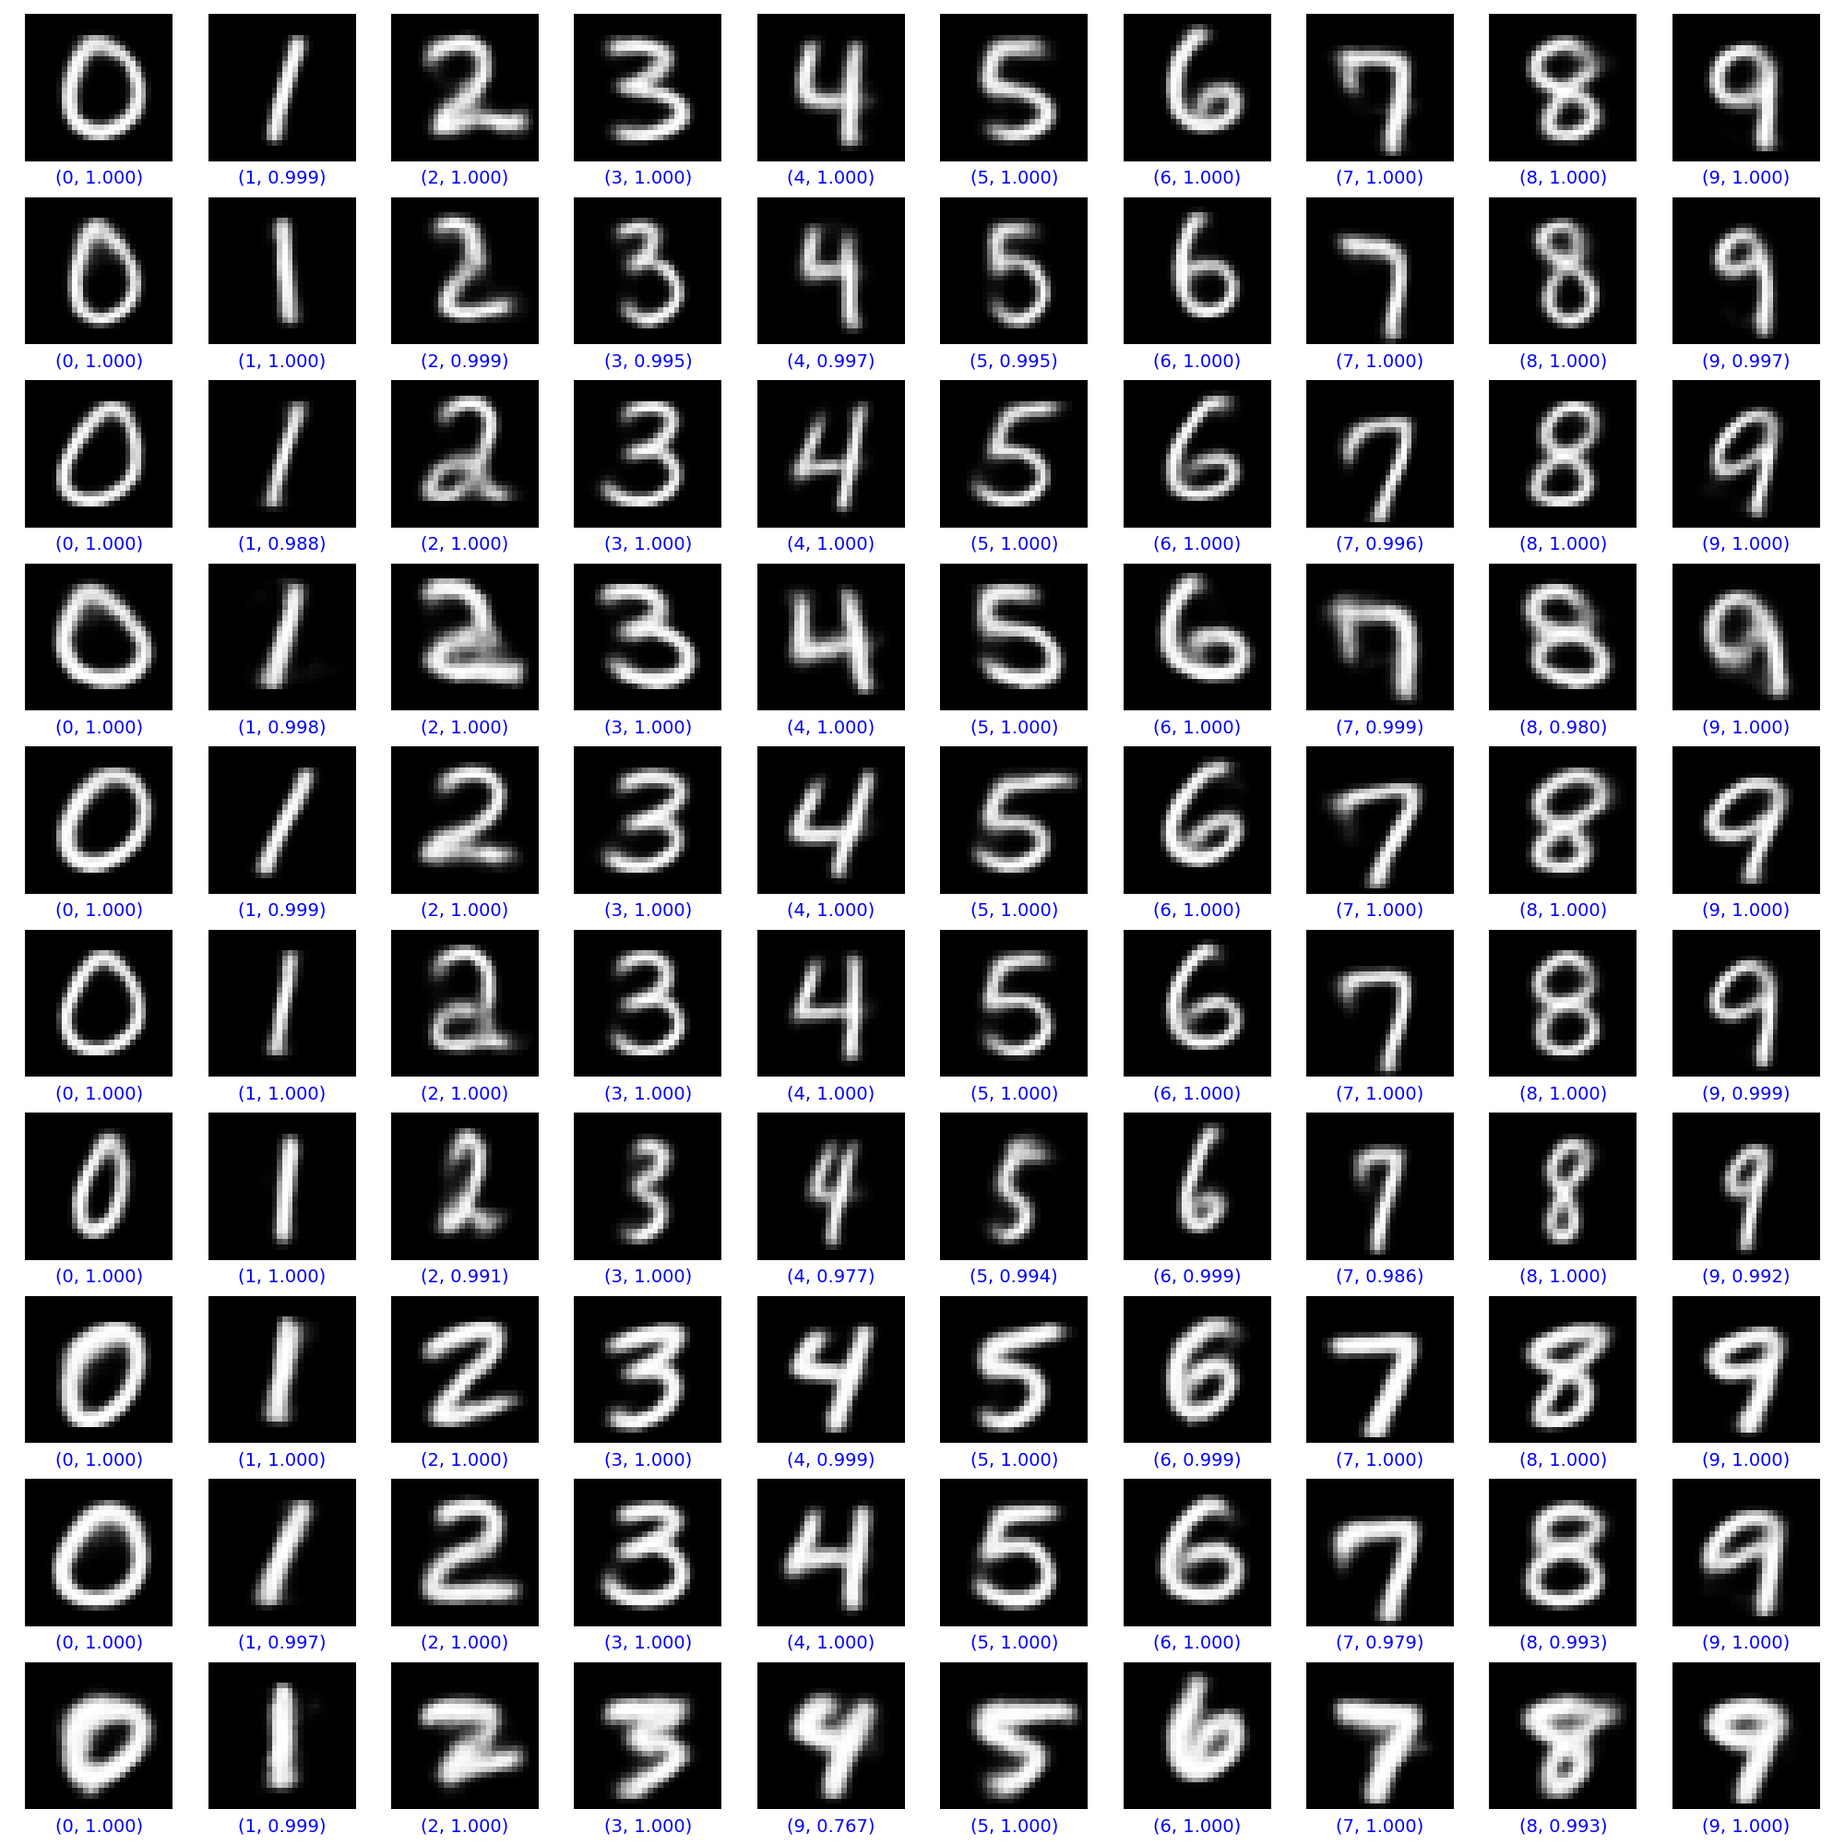
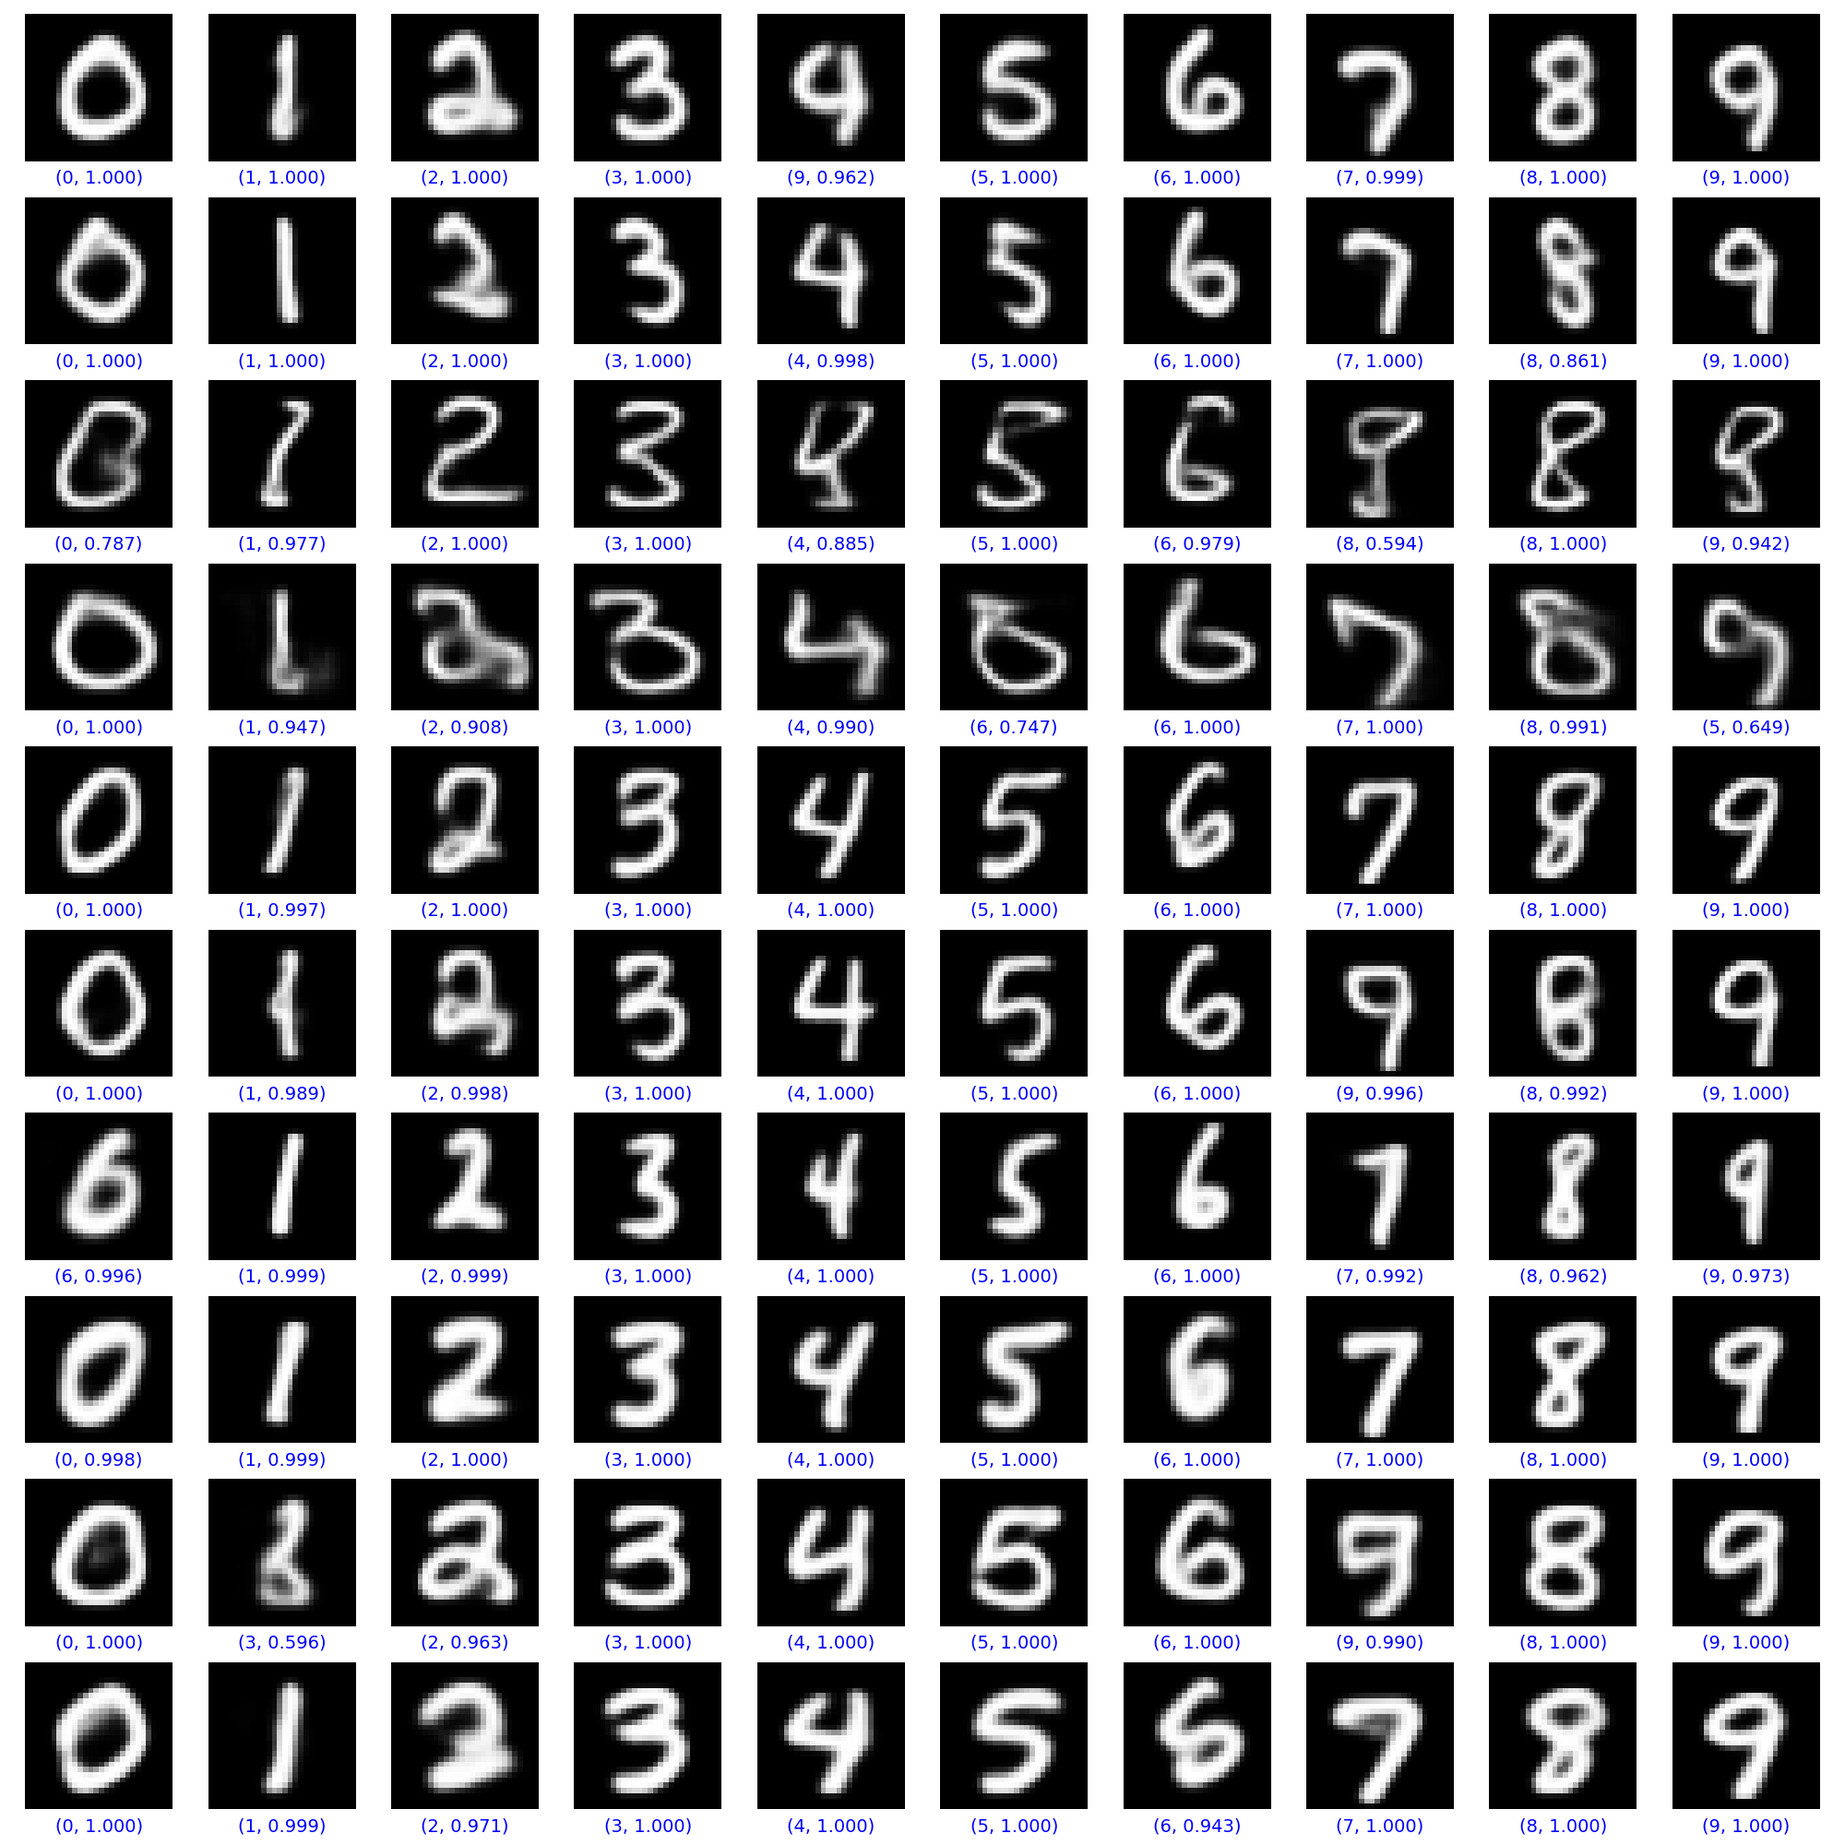
Sinkhorn OT Transform

diff --git a/Sources/code/utils/latent.py b/Sources/code/utils/latent.py
@@ -1,6 +1,7 @@
 from code.utils import cache
 import numpy as np
-import tensorflow as tf    
+import scipy
+import tensorflow as tf
 
 def encode(autoencoder, x, y, n_times=1, save_cache=False, return_dist=False, verbose=None):
     """
@@ -113,3 +114,239 @@ def translate(z, y_src, y_dst, class_distributions, use_std=True):
         
 def style_class_transform(z, y, num_classes=None):
     return (z, tf.keras.utils.to_categorical(y, num_classes=num_classes))
+
+"""def ecdf(data):
+    x = np.sort(data)
+    y = np.linspace(1/len(data), 1, len(data))
+    return x, y
+
+def inverse_ecdf(data, kind='linear'):
+    x, e = ecdf(data)
+    return scipy.interpolate.interp1d(e, x, kind=kind, fill_value="extrapolate")
+
+def quantile_mapping(x_value, source_data, dest_data, kind='linear'):
+    source_sorted, _ = ecdf(source_data)
+    
+    p = np.searchsorted(source_sorted, x_value, side='right') / len(source_data)
+    
+    dest_inv_ecdf = inverse_ecdf(dest_data, kind=kind)
+    
+    return dest_inv_ecdf(p)
+    
+def transform(z_src, y_src, y_dst, z_classes, y_classes):
+    z_src = np.asarray(z_src)
+
+    if np.isscalar(y_src):
+        y_src = np.full(len(z_src), y_src)
+    if np.isscalar(y_dst):
+        y_dst = np.full(len(z_src), y_dst)
+
+    if len(z_src) != len(y_src) or len(y_src) != len(y_dst):
+        raise ValueError(f"z_src ({len(z_src)}), y_src ({len(y_src)}) et y_dst ({len(y_dst)}) doivent être de la même taille")
+    
+    z_dst = z_src.copy()
+    for i in range(z_src.shape[0]):
+        z_src_c = z_classes[y_classes == y_src[i]]
+        z_dst_c = z_classes[y_classes == y_dst[i]]
+        for j in range(1, z_src[i].shape[0]):
+            z_dst[i, j] = quantile_mapping(z_src[i, j], z_src_c[:, j], z_dst_c[:, j])
+
+    return z_dst"""
+
+"""def transform(z, y_src, y_dst, z_classes, y_classes):
+    z = np.asarray(z)
+    n_samples = z.shape[0]
+    
+    if np.isscalar(y_src):
+        y_src = np.full(n_samples, y_src)
+    if np.isscalar(y_dst):
+        y_dst = np.full(n_samples, y_dst)
+
+    y_src = np.array(y_src)
+    y_dst = np.array(y_dst)
+    
+    if len(z) != len(y_src) or len(y_src) != len(y_dst):
+        raise ValueError(f"z_src ({len(z)}), y_src ({len(y_src)}) et y_dst ({len(y_dst)}) doivent être de la même taille")
+    
+    unique_classes = np.unique(y_classes)
+    class_stats = {}
+    for cls in unique_classes:
+        cls_mask = (y_classes == cls)
+        cls_data = z_classes[cls_mask]
+        mean = np.mean(cls_data, axis=0)
+        cov = np.cov(cls_data, rowvar=False) # todo class_distributions? not too expensive here either
+        class_stats[cls] = {'mean': mean, 'cov': cov}
+    
+    translated = np.zeros_like(z)
+    for i in range(n_samples):
+        src_cls = y_src[i]
+        dst_cls = y_dst[i]
+        
+        src_mean = class_stats[src_cls]['mean']
+        src_cov = class_stats[src_cls]['cov']
+        dst_mean = class_stats[dst_cls]['mean']
+        dst_cov = class_stats[dst_cls]['cov']
+        
+        # https://en.wikipedia.org/wiki/Whitening_transformation
+        # whitening : src_cov^(-1/2) * (z - src_mean)
+        whitened = scipy.linalg.solve(scipy.linalg.sqrtm(src_cov), (z[i] - src_mean).T).T
+        # coloring : dst_cov^(1/2) * whitened + dst_mean
+        translated[i] = (scipy.linalg.sqrtm(dst_cov) @ whitened.T).T + dst_mean
+       
+        # cholesky c'est plus rapide, peut être pas plus efficace
+        # L_src = scipy.linalg.cholesky(src_cov, lower=True)
+        # whitened = scipy.linalg.solve_triangular(L_src, (z[i] - src_mean).T, lower=True).T
+        
+        # L_dst = scipy.linalg.cholesky(dst_cov, lower=True)
+        # translated[i] = (L_dst @ whitened.T).T + dst_mean
+        
+    return translated"""
+
+"""import numpy as np
+import scipy.linalg
+from scipy.stats import ks_2samp, wasserstein_distance
+
+def transform(
+    z, 
+    y_src, 
+    y_dst, 
+    z_classes, 
+    y_classes, 
+    shrinkage=0.01, 
+    alpha=0.05, 
+    validate=False
+):
+    z = np.asarray(z)
+    y_src = np.broadcast_to(y_src, len(z)).flatten()
+    y_dst = np.broadcast_to(y_dst, len(z)).flatten()
+    
+    classes = np.unique(np.concatenate([y_src, y_dst]))
+    class_stats = {}
+    for cls in classes:
+        mask = y_classes == cls
+        if np.sum(mask) < 2:
+            raise ValueError(f"Class {cls} has insufficient samples")
+            
+        cls_data = z_classes[mask]
+        mean = np.mean(cls_data, axis=0)
+        
+        n_features = cls_data.shape[1]
+        emp_cov = np.cov(cls_data, rowvar=False)
+        cov = (1 - shrinkage) * emp_cov + shrinkage * np.eye(n_features)
+        
+        try:
+            L = scipy.linalg.cholesky(cov, lower=True)
+        except scipy.linalg.LinAlgError:
+            L = scipy.linalg.cholesky(cov + 1e-6*np.eye(n_features), lower=True)
+            
+        class_stats[cls] = {'mean': mean, 'L': L}
+
+    src_cls, dst_cls = np.unique(y_src)[0], np.unique(y_dst)[0]
+    src_data = z_classes[y_classes == src_cls]
+    dst_data = z_classes[y_classes == dst_cls]
+    
+    pvals = [ks_2samp(src_data[:,i], dst_data[:,i])[1] for i in range(z.shape[1])]
+    sig_features = np.where(np.array(pvals) < alpha)[0]
+
+    translated = z.copy()
+    for cls_pair in np.unique(np.column_stack((y_src, y_dst)), axis=0):
+        src_mask = (y_src == cls_pair[0]) & (y_dst == cls_pair[1])
+        if not np.any(src_mask):
+            continue
+            
+        s = class_stats[cls_pair[0]]
+        d = class_stats[cls_pair[1]]
+        
+        whitened = scipy.linalg.solve_triangular(
+            s['L'], (z[src_mask] - s['mean']).T, lower=True
+        ).T
+        
+        translated[src_mask] = (d['L'] @ whitened.T).T + d['mean']
+        
+        if len(sig_features) < z.shape[1]:
+            translated[src_mask][:, ~sig_features] = z[src_mask][:, ~sig_features]
+
+    if validate:
+        val_data = translated[y_dst == dst_cls]
+        metrics = {
+            'wasserstein': [wasserstein_distance(val_data[:,i], dst_data[:,i]) 
+                           for i in range(z.shape[1])],
+            'mean_diff': np.linalg.norm(np.mean(val_data, 0) - class_stats[dst_cls]['mean']),
+            'cov_diff': np.linalg.norm(np.cov(val_data.T) - class_stats[dst_cls]['cov'])
+        }
+        return translated, metrics
+    
+    return translated"""
+
+import numpy as np
+import ot
+from sklearn.preprocessing import StandardScaler
+
+def compute_mappings_ot(z_classes, y_classes, subsample_ratio=0.4):
+    classes = np.unique(y_classes)
+    class_pairs = [(src, dst) for src in classes for dst in classes if src != dst]
+    
+    mappings = {}
+    
+    for src_cls, dst_cls in class_pairs:
+        print(f"Paire: ({src_cls}, {dst_cls})")
+        
+        src_indices = np.where(y_classes == src_cls)[0]
+        dst_indices = np.where(y_classes == dst_cls)[0]
+        
+        src_sample_size = int(len(src_indices) * subsample_ratio)
+        dst_sample_size = int(len(dst_indices) * subsample_ratio)
+
+        src_sample = np.random.choice(src_indices, src_sample_size, replace=False)
+        dst_sample = np.random.choice(dst_indices, dst_sample_size, replace=False)
+
+        X_src = z_classes[src_sample]
+        X_dst = z_classes[dst_sample]
+
+        scaler = StandardScaler()
+        X_src_scaled = scaler.fit_transform(X_src)
+        X_dst_scaled = scaler.transform(X_dst)
+
+        M = ot.dist(X_src_scaled, X_dst_scaled, metric='euclidean')
+        a = np.ones((len(X_src_scaled),)) / len(X_src_scaled)
+        b = np.ones((len(X_dst_scaled),)) / len(X_dst_scaled)
+
+        # transport_plan = ot.sinkhorn(a, b, M, reg=0.275, numItermax=10000)
+        #transport_plan = ot.emd(a, b, M, numItermax=5000000)
+        transport_plan = ot.bregman.sinkhorn_log(a, b, M, reg=0.15, numItermax=10000)
+
+        mappings[(src_cls, dst_cls)] = {
+            'scaler': scaler,
+            'transport_plan': transport_plan,
+            'X_src_scaled': X_src_scaled,
+            'X_dst_scaled': X_dst_scaled
+        }
+    
+    return mappings
+
+def transform_ot(z, y_src, y_dst, mappings):
+    z_transformed = np.copy(z)
+    for (src_cls, dst_cls), mapping in mappings.items():
+        if src_cls == dst_cls:
+            continue
+
+        mask = (y_src == src_cls) & (y_dst == dst_cls)
+        if np.any(mask):
+            scaler = mapping['scaler']
+            transport_plan = mapping['transport_plan']
+            X_src_scaled = mapping['X_src_scaled']
+            X_dst_scaled = mapping['X_dst_scaled']
+
+            z_batch = scaler.transform(z[mask])
+
+            transformed = np.zeros_like(z_batch)
+            n_src = len(X_src_scaled)
+            for i, sample in enumerate(z_batch):
+                distances = np.linalg.norm(X_src_scaled - sample, axis=1)
+                closest_idx = np.argmin(distances)
+                transport_weights = transport_plan[closest_idx]
+                transformed_sample = np.dot(transport_weights * n_src, X_dst_scaled)
+                transformed[i] = transformed_sample
+
+            z_transformed[mask] = scaler.inverse_transform(transformed)
+    return z_transformed

diff --git a/Sources/code/translation/transform_grid.py b/Sources/code/translation/transform_grid.py
@@ -1,0 +1,79 @@
+import numpy as np
+import tensorflow as tf
+from keras.datasets import mnist
+import matplotlib.pyplot as plt
+
+from code.utils import cache, latent, utils, models
+
+np.random.seed(42)
+tf.keras.utils.set_random_seed(42)
+
+(x_train, y_train), (x_test, y_test) = mnist.load_data()
+
+x_train, x_test = utils.preprocess_dataset(x_train, x_test)
+
+digit_indices = np.array([
+    1333, # 0
+    9415, # 1
+    3773, # 2
+     524, # 3
+    1980, # 4
+    1874, # 5
+    4252, # 6
+    6960, # 7
+    8466, # 8
+    5333  # 9
+])
+
+autoencoder, _ = models.select_model(models.list_models(
+    criteria={"type": "autoencoder", "labels": False, "dataset_range": (0, 1)}
+))
+
+classifier, _ = models.select_model(models.list_models(
+    criteria={"type": "classifier"}
+))
+
+z_test = latent.encode(
+    autoencoder,
+    x=x_test[digit_indices],
+    y=y_test[digit_indices],
+    n_times=3,
+    save_cache=False
+)
+
+z_train = latent.encode(
+    autoencoder,
+    x=x_train,
+    y=y_train,
+    n_times=2,
+    save_cache=True
+)
+
+fig, axes = plt.subplots(10, 10, figsize=(20, 20))
+
+y_src = np.repeat(np.arange(10), 10)  # [0, 0, ..., 9, 9]
+y_dst = np.tile(np.arange(10), 10)  # [0, 1, ..., 9, 0, 1, ..., 9]
+
+z_src = np.repeat(z_test, 10, axis=0)
+
+mappings = latent.compute_mappings_ot(z_train, y_train)
+z_dst = latent.transform_ot(z_src, y_src, y_dst, mappings)
+
+x_decoded = autoencoder.decoder.predict(z_dst)
+x_decoded = tf.image.resize(x_decoded, (28, 28)).numpy()
+
+guessed_classes, _, certainties = utils.classify(x_decoded, classifier)
+
+x_decoded = x_decoded.reshape(10, 10, 28, 28)
+guessed_classes = guessed_classes.reshape(10, 10)
+certainties = certainties.reshape(10, 10)
+
+for src_class in range(10):
+    for dst_class in range(10):
+        ax = axes[src_class, dst_class]
+        ax.imshow(x_decoded[src_class, dst_class], cmap="gray")
+        ax.text(0.5, -0.15, f"({guessed_classes[src_class, dst_class]}, {certainties[src_class, dst_class]:.3f})", fontsize=14, color="blue", ha="center", transform=ax.transAxes)
+        ax.axis('off')
+
+plt.tight_layout()
+plt.savefig(cache.RESULTS_FOLDER / "mnist-transform-grid.png")

diff --git a/Sources/code/utils/models.py b/Sources/code/utils/models.py
@@ -2,22 +2,9 @@ import json
 import tensorflow as tf
 
 from code.models import *
-from code.utils import cache
+from code.utils import cache, formatters
 
 import json
-
-def default_formatter(model, criteria):
-    display_fields = [k for k in criteria if k != "type"]
-    parts = [f"category : {model.get('category', 'N/A')}"]
-    for key in display_fields:
-        if key == "category":
-            continue
-        val = tuple(model[key]) if isinstance(model.get(key), list) else model.get(key)
-        parts.append(f"{key} : {val}")
-    return "-".join(parts)
-
-def ae_formatter(model, criteria):
-    return f"{model['category']} | {tuple(model['input_shape'])} → {tuple(model['latent_shape'])} → {tuple(model['output_shape'])} | Dataset : {(100.0 * (model['dataset_range'][1] - model['dataset_range'][0])):.2f}%"
 
 def cleanup_models(models_file="models.json"):
     models_path = cache.MODEL_FOLDER / models_file
@@ -62,7 +49,7 @@ def save_model(model, model_definition, models_file="models.json"):
     model_path.mkdir(parents=True, exist_ok=True)
     model.save(model_path / model_definition["file"])
 
-def list_models(criteria={}, formatter=default_formatter, header="Liste des modèles :", models_file="models.json"):
+def list_models(criteria={}, formatter=formatters.automatic, header="Liste des modèles :", models_file="models.json"):
     cleanup_models(models_file)
     with open(cache.MODEL_FOLDER / models_file, "r") as f:
         models = json.load(f)

diff --git a/Sources/code/utils/formatters.py b/Sources/code/utils/formatters.py
@@ -1,0 +1,21 @@
+def default(model, criteria):
+    display_fields = [k for k in criteria if k != "type"]
+    parts = [f"category : {model.get('category', 'N/A')}"]
+    for key in display_fields:
+        if key == "category":
+            continue
+        val = tuple(model[key]) if isinstance(model.get(key), list) else model.get(key)
+        parts.append(f"{key} : {val}")
+    return "-".join(parts)
+
+def autoencoder(model, criteria):
+    return f"{model['category']} | {tuple(model['input_shape'])} → {tuple(model['latent_shape'])} → {tuple(model['output_shape'])} | Dataset : {(100.0 * (model['dataset_range'][1] - model['dataset_range'][0])):.2f}%"
+
+def classifier(model, criteria):
+    return f"{model['category']} | {tuple(model['input_shape'])} → {tuple(model['output_shape'])} | Dataset : {(100.0 * (model['dataset_range'][1] - model['dataset_range'][0])):.2f}%"
+
+def automatic(model, criteria):
+    return {
+        "autoencoder": autoencoder,
+        "classifier": classifier
+    }.get(model["type"], default)(model, criteria)
